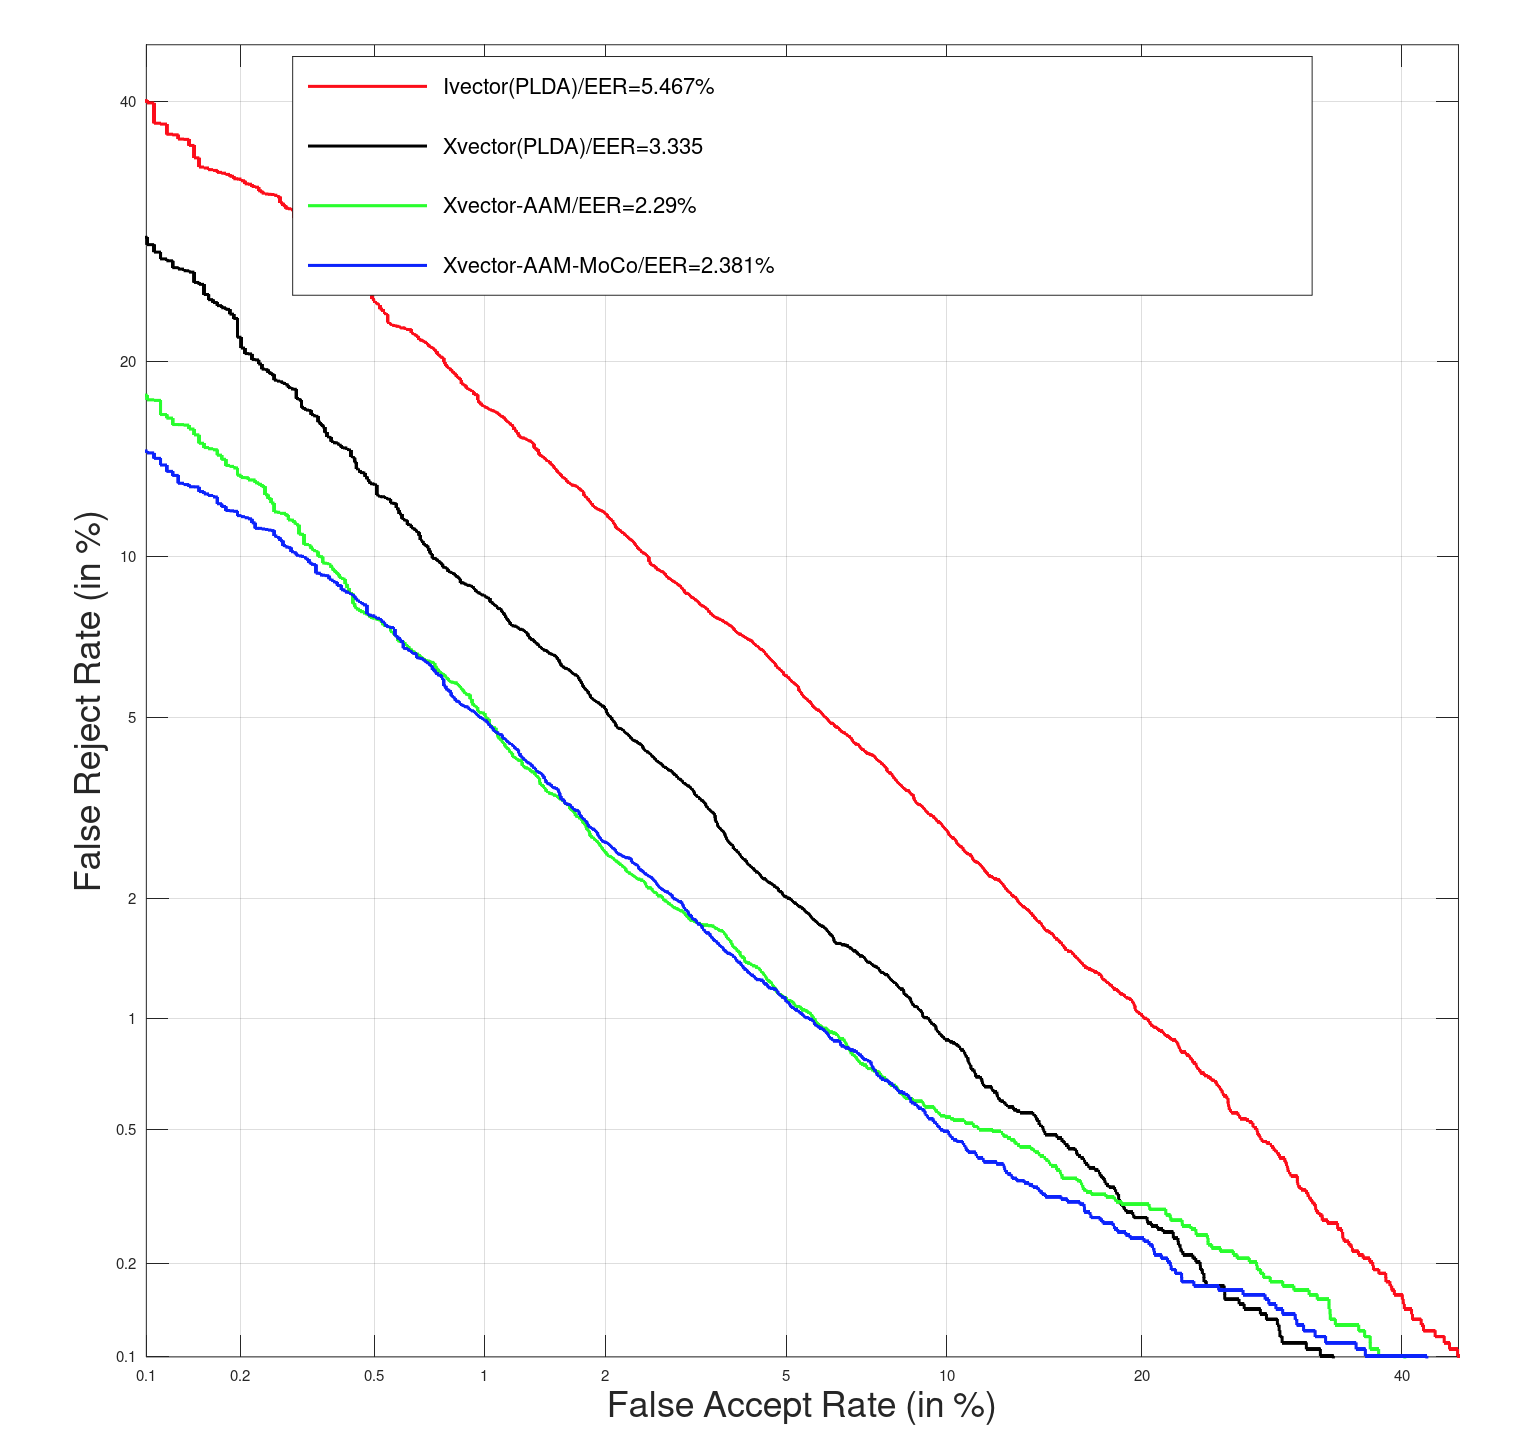
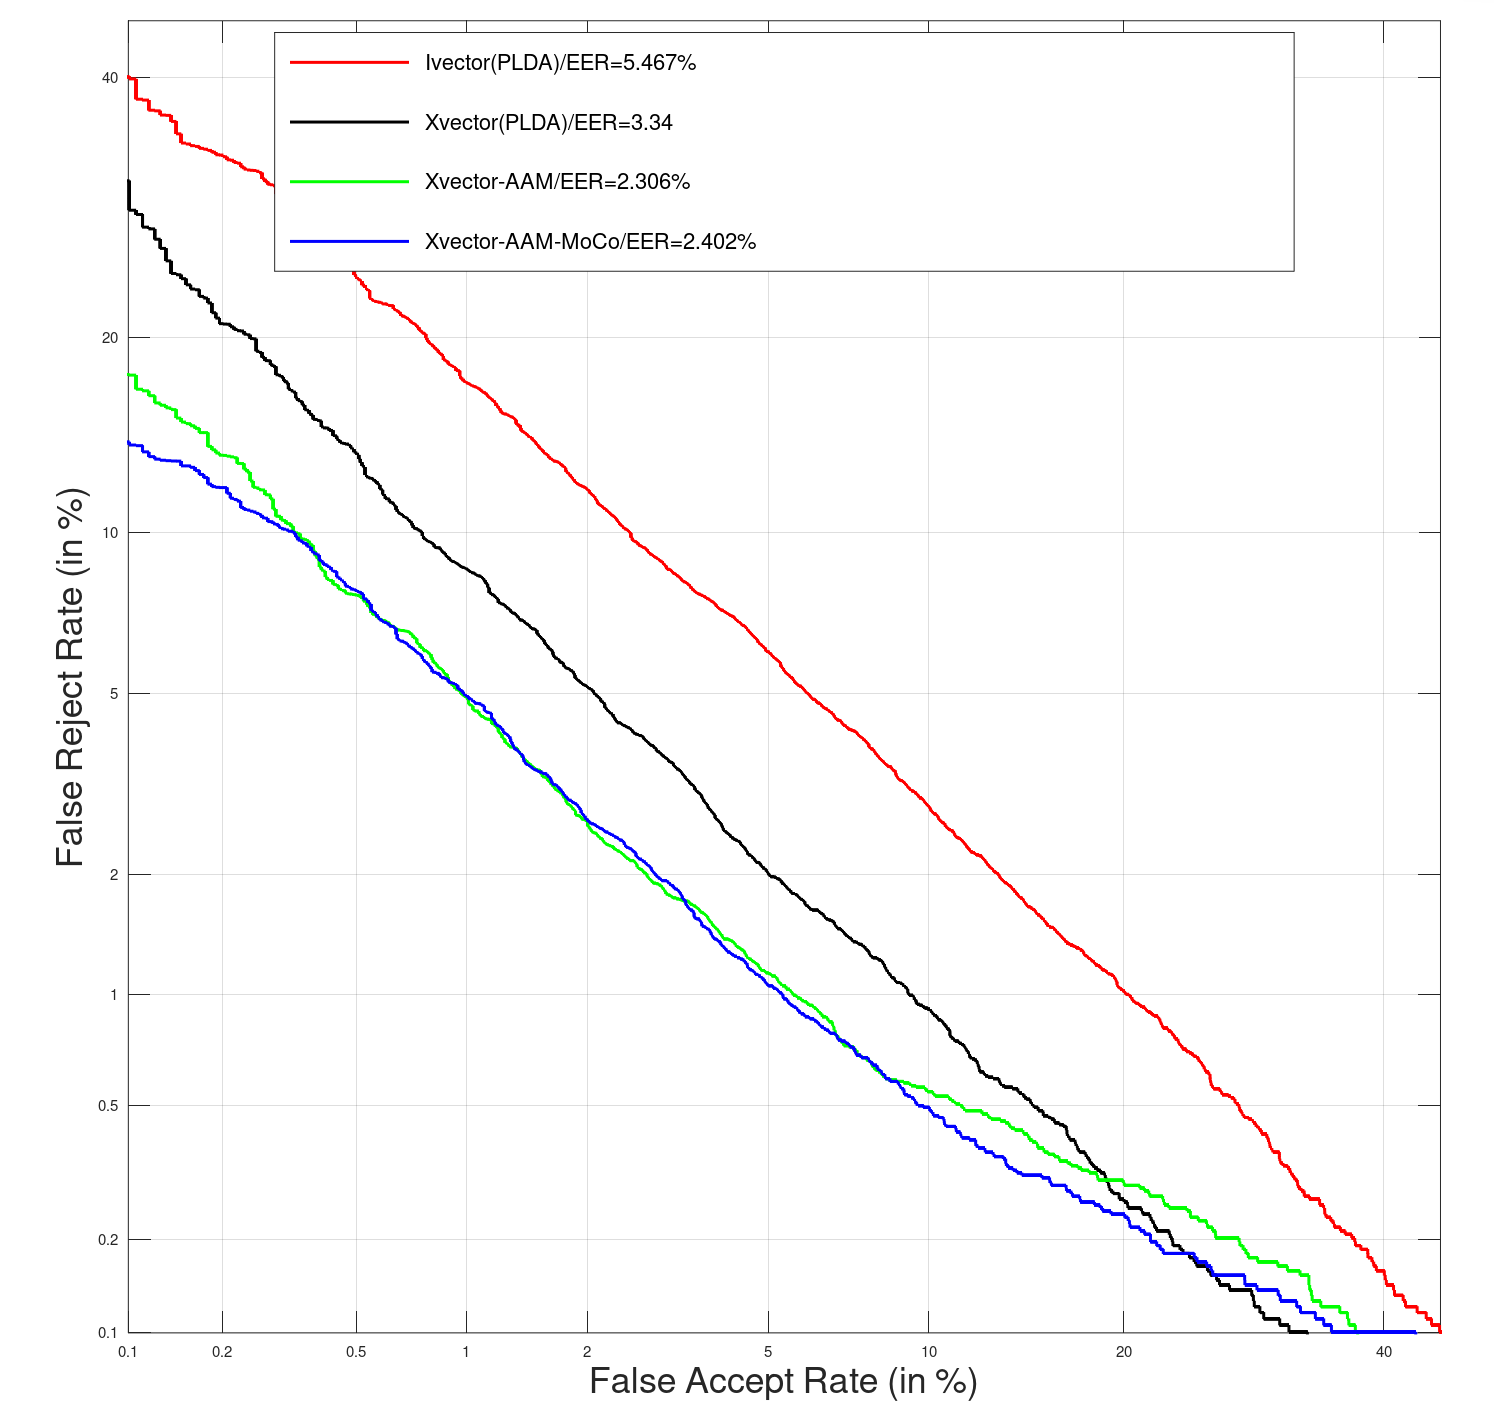
update result

diff --git a/README.md b/README.md
@@ -76,17 +76,17 @@ sh test.sh \
 | Method | EER(%) | minDCT(0.01) | minDCT(0.001) |
 |:------ | :----: | :----------: | :-----------: |
 | Ivector| 5.467  | 0.4859 | 0.6213 |
-| Xvector| 3.335 | 0.3812 | 0.6194 |
-| Xvector-AAM | 2.582 | 0.3423 | 0.5907 |
-|Xvector-AAM-MoCo | 2.46 | 0.2686 | 0.3907 |
+| Xvector| 3.34 | 0.3795 | 0.6138 |
+| Xvector-AAM | 2.55 | 0.3464 | 0.5848 |
+|Xvector-AAM-MoCo | 2.423 | 0.2856 | 0.3850 |
 
 ## Cosine
 | Method | EER(%) | minDCT(0.01) | minDCT(0.001) |
 |:------ | :----: | :----------: | :-----------: |
 | Ivector| 14.65 | 0.7195 | 0.8661 |
-| Xvector | 7.306 | 0.5759 | 0.7545 |
-| Xvector-AAM | 2.29 | 0.2641 | 0.3374 |
-| Xvector-AAM-MoCo | 2.381 | 0.2285 | 0.2532 |
+| Xvector | 7.349 | 0.5799 | 0.7418 |
+| Xvector-AAM | 2.306 | 0.2647 | 0.3372 |
+| Xvector-AAM-MoCo | 2.402 | 0.2232 | 0.3573 |
 
 ## DET
 ![DET](image/DET.png)
